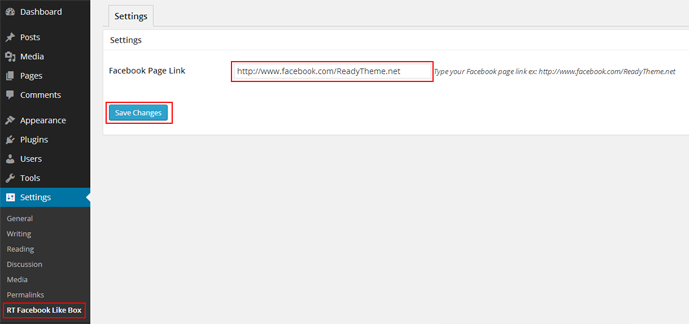
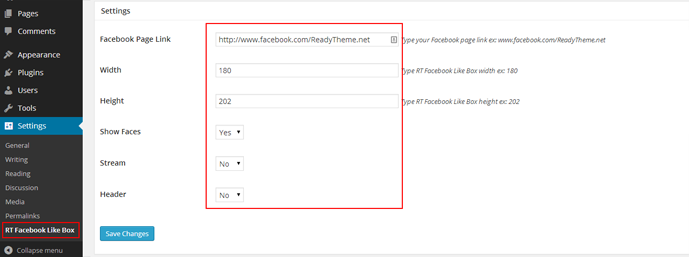
update
git-svn-id: https://plugins.svn.wordpress.org/rt-facebook-like-box/trunk@936644 b8457f37-d9ea-0310-8a92-e5e31aec5664

diff --git a/rt-facebook-like-box.php b/rt-facebook-like-box.php
@@ -4,7 +4,7 @@ Plugin Name: RT Facebook Like Box
 Plugin URI: http://readytheme.net/plugins/rt-facebook-like-box
 Description: This plugin for a facebook like box in your website.
 Author: Ready Theme
-Version: 1.0
+Version: 1.1
 Author URI: http://readytheme.net
 */
 
@@ -68,10 +68,59 @@ class RT_Settings_API_file {
                 array(
                     'name' => 'facebook_url',
                     'label' => __( 'Facebook Page Link', 'readytheme' ),
-                    'desc' => __( 'Type your Facebook page link ex: http://www.facebook.com/ReadyTheme.net', 'readytheme' ),
-					'default' => 'http://www.facebook.com/ReadyTheme.net',
+                    'desc' => __( 'Type your Facebook page link ex: www.facebook.com/ReadyTheme.net', 'readytheme' ),
+					'default' => 'www.facebook.com/ReadyTheme.net',
                     'type' => 'text'
 					
+                ),
+                array(
+                    'name' => 'facebook_main_width',
+                    'label' => __( 'Width', 'readytheme' ),
+                    'desc' => __( 'Type RT Facebook Like Box width ex: 180 ', 'readytheme' ),
+					'default' => '180',
+                    'type' => 'text'
+					
+                ),
+                array(
+                    'name' => 'facebook_main_height',
+                    'label' => __( 'Height', 'readytheme' ),
+                    'desc' => __( 'Type RT Facebook Like Box height ex: 202 ', 'readytheme' ),
+					'default' => '202',
+                    'type' => 'text'
+					
+                ),
+				array(
+                    'name' => 'show_faces_area',
+                    'label' => __( 'Show Faces', 'readytheme' ),
+                    'desc' => __( '', 'readytheme' ),
+                    'type' => 'select',
+                    'default' => 'true',
+                    'options' => array(
+                        'true' => 'Yes',
+                        'false' => 'No'
+                    )
+                ),
+				array(
+                    'name' => 'stream_area',
+                    'label' => __( 'Stream', 'readytheme' ),
+                    'desc' => __( '', 'readytheme' ),
+                    'type' => 'select',
+                    'default' => 'false',
+                    'options' => array(
+                        'true' => 'Yes',
+                        'false' => 'No'
+                    )
+                ),
+				array(
+                    'name' => 'header_area',
+                    'label' => __( 'Header', 'readytheme' ),
+                    'desc' => __( '', 'readytheme' ),
+                    'type' => 'select',
+                    'default' => 'false',
+                    'options' => array(
+                        'true' => 'Yes',
+                        'false' => 'No'
+                    )
                 )
             ),
         );
@@ -113,7 +162,14 @@ $settings = new RT_Settings_API_file();
 /* Get the value of a settings field */
 
 $option=facebook_url;
+$option=facebook_main_width;
+$option=facebook_main_height;
+$option=show_faces_area;
+$option=stream_area;
+$option=header_area;
 $section=stting_basics;
+$default=202;
+$default=180;
 
 function my_get_option( $option, $section, $default = '' ) {
  
@@ -130,6 +186,7 @@ function my_get_option( $option, $section, $default = '' ) {
 
 function rt_facebook_like_box_main() {
 ?>
+<style type="text/css">.regular-text{width:50px !important;}</style>
 <div style="position: fixed; right: 0; margin-bottom: 0; border: 1px solid #eee; background:#fff; z-index: 999; bottom: 0px; display: block; text-align:left" id="facebook_likebox">
 
 <div style="position: absolute; left: -25px; margin: -15px 0 0 10px; z-index: 1000;">
@@ -137,7 +194,7 @@ function rt_facebook_like_box_main() {
 echo '<img height="20" src="' . plugins_url( 'images/close.png' , __FILE__ ) . '" > ';
 ?></span>
 </div>
-<div id="fb-root"></div><script src="http://connect.facebook.net/en_US/all.js#xfbml=1"></script><fb:like-box href="<?php echo my_get_option( 'facebook_url', 'stting_basics' ); ?>" width="180" height="202" show_faces="true" border_color="#fff" stream="false" header="false"></fb:like-box>
+<div id="fb-root"></div><script src="http://connect.facebook.net/en_US/all.js#xfbml=1"></script><fb:like-box href="<?php echo my_get_option( 'facebook_url', 'stting_basics' ); ?>" width="<?php echo my_get_option( 'facebook_main_width', 'stting_basics', '180' ); ?>" height="<?php echo my_get_option( 'facebook_main_height', 'stting_basics', '202' ); ?>" show_faces="<?php echo my_get_option( 'show_faces_area', 'stting_basics' ); ?>" border_color="#fff" stream="<?php echo my_get_option( 'stream_area', 'stting_basics' ); ?>" header="<?php echo my_get_option( 'header_area', 'stting_basics' ); ?>"></fb:like-box>
 </div>
 <?php
 
